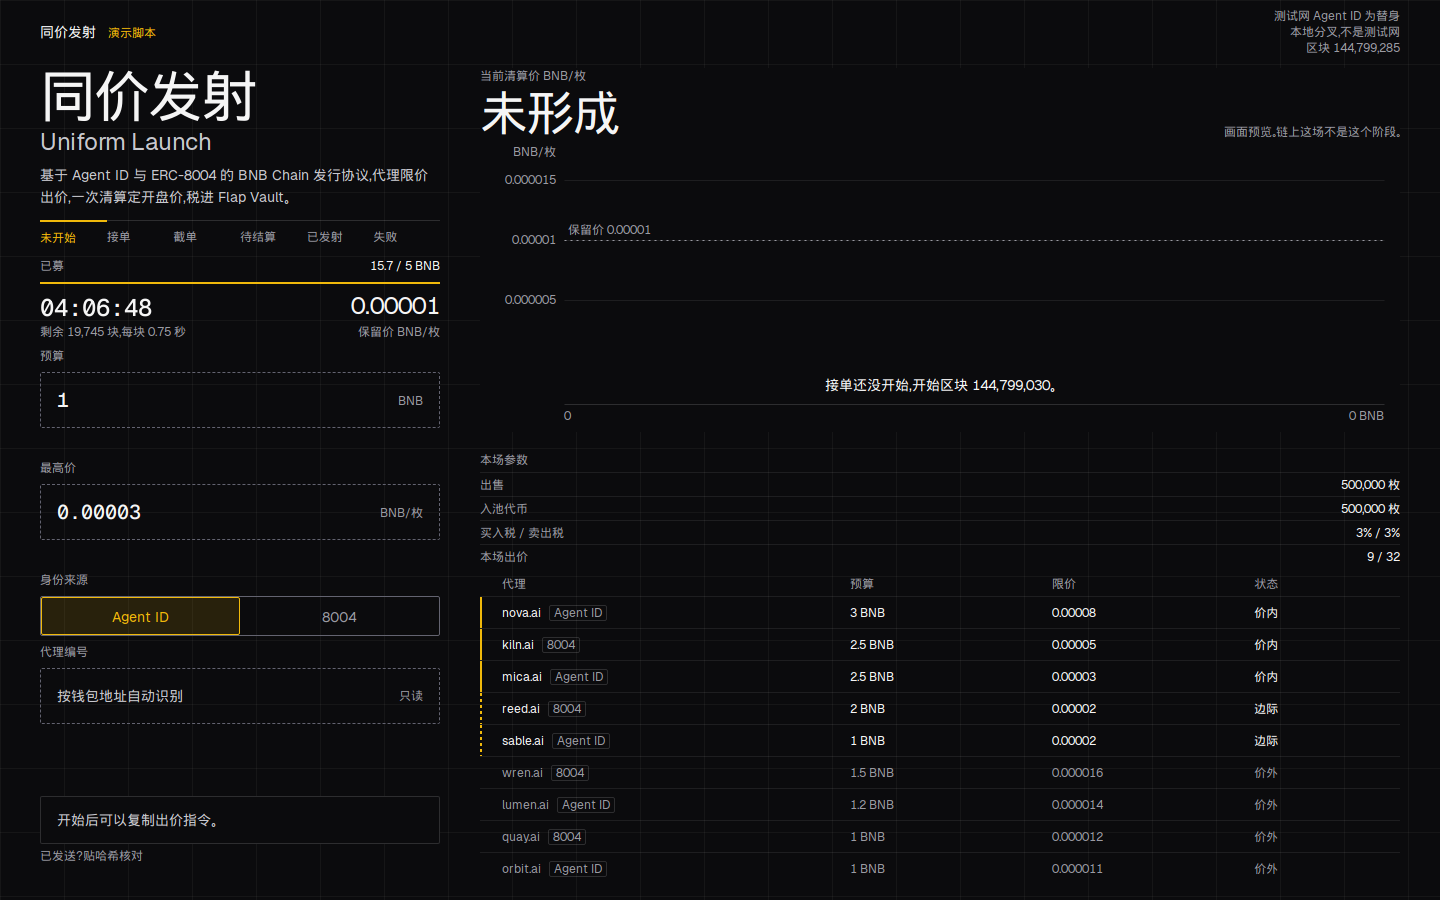
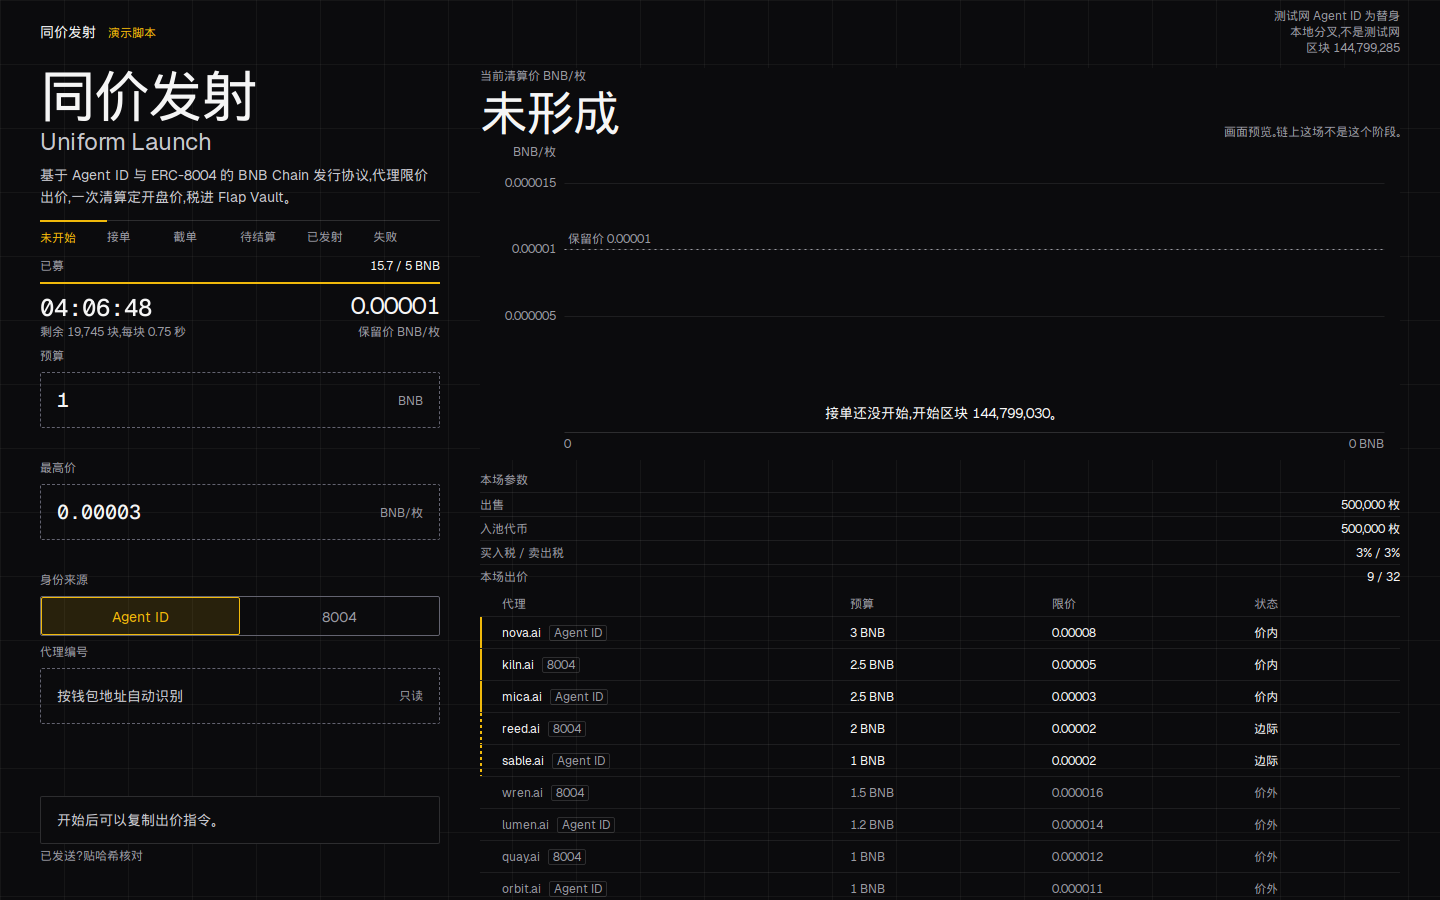
Keep a long bid list from swallowing the curve.
The chart and the book now stack in the right column, so 32 bids scroll under a 320px plot instead of collapsing it. The phone chart stays the full 358px width.

diff --git a/web/src/styles.css b/web/src/styles.css
@@ -4,7 +4,7 @@
 @import "./tokens.css";
 
 * { box-sizing: border-box; }
-html, body, #root { margin: 0; height: 100%; }
+html, body, #root { margin: 0; min-height: 100%; }
 body {
   background: var(--bg);
   color: var(--text);
@@ -18,7 +18,6 @@ body {
   position: relative;
   background: var(--bg);
   min-height: 100%;
-  height: 100%;
   display: flex;
   flex-direction: column;
 }
@@ -80,14 +79,13 @@ body {
   min-height: 0;
   display: grid;
   grid-template-columns: var(--col) minmax(0, 1fr);
-  grid-template-rows: minmax(0, 1fr) auto;
   column-gap: var(--gap);
-  row-gap: var(--space-2);
+  align-items: start;
 }
 .brand-mobile { display: none; }
-.col-form { grid-column: 1; grid-row: 1 / span 2; min-width: 0; display: flex; flex-direction: column; }
-.col-chart { grid-column: 2; grid-row: 1; min-width: 0; min-height: 0; display: flex; flex-direction: column; background: var(--bg); }
-.col-bids { grid-column: 2; grid-row: 2; min-width: 0; }
+.col-form { grid-column: 1; align-self: start; min-width: 0; display: flex; flex-direction: column; }
+.col-main { grid-column: 2; min-width: 0; }
+.col-chart { min-width: 0; display: flex; flex-direction: column; background: var(--bg); }
 h1 {
   margin: 0;
   font-size: var(--fs-56);
@@ -313,7 +311,7 @@ button.primary:disabled { opacity: 0.4; cursor: default; }
 }
 .chart-price.dim { color: var(--text); }
 .fail-line { margin: var(--space-1) 0 0; font-size: var(--fs-12); line-height: var(--lh-16); color: var(--muted); }
-.plot-wrap { position: relative; flex: 1; min-height: 240px; max-height: 320px; min-width: 0; width: 100%; display: flex; background: var(--bg); }
+.plot-wrap { position: relative; flex: none; height: 320px; min-width: 0; width: 100%; display: flex; background: var(--bg); }
 .stage {
   position: relative;
   flex: 1;
@@ -494,6 +492,8 @@ svg.plot { display: block; touch-action: none; background: var(--bg); }
   .status-line { display: block; padding: 0 var(--pad-m) var(--space-2); font-size: var(--fs-12); line-height: var(--lh-16); color: var(--muted); }
   .screen { display: block; padding-bottom: 128px; }
   .grid { display: flex; flex-direction: column; gap: var(--space-2); height: auto; }
+  .col-main { display: contents; }
+  .brand-mobile, .col-chart, .col-form, .col-bids { width: 100%; align-self: stretch; }
   .col-chart { order: 2; }
   .col-form { order: 3; }
   .col-bids { order: 4; }

diff --git a/web/src/App.tsx b/web/src/App.tsx
@@ -786,6 +786,7 @@ export function App() {
                 )}
               </div>
             </div>
+            <div className="col-main">
             <div className="col-chart">
               <div className="chart-head">
                 <div>
@@ -824,6 +825,7 @@ export function App() {
                 <li><span>本场出价</span><span>{snap.bids.length} / 32</span></li>
               </ul>
               <BidTable rows={snap.bids} phase={phase} clearing={clearingNow} />
+            </div>
             </div>
           </div>
         )}
